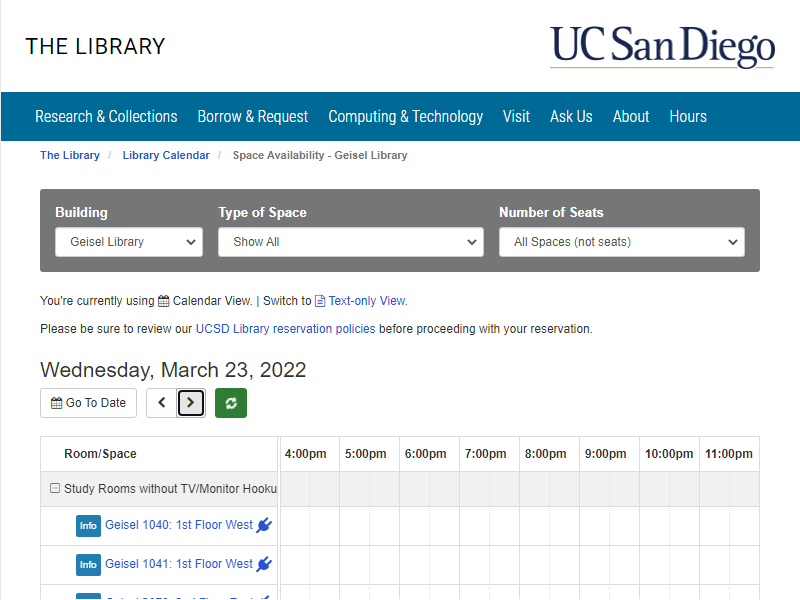
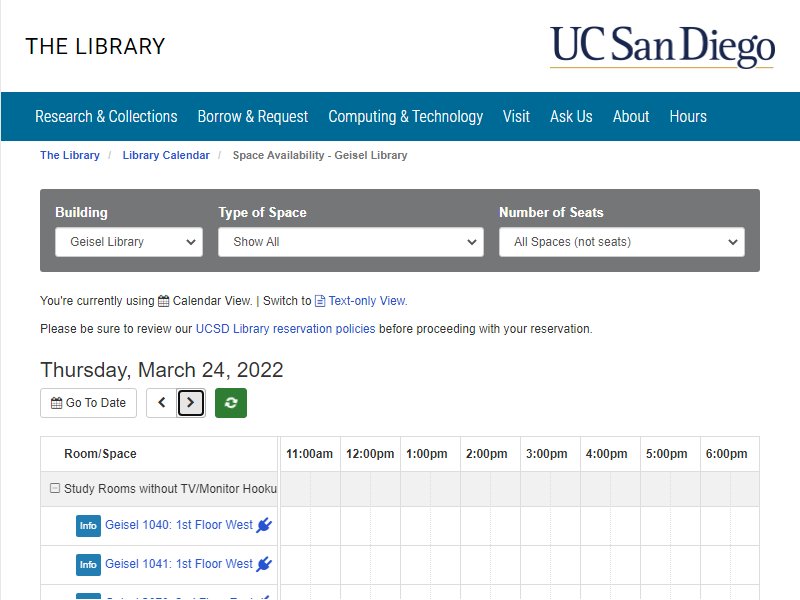
now works for a single reservation at a specific time. walks through from page load to reservation confirmation. THROUGH DUO

Changed region(s): [[0.3438, 0.75, 0.9375, 0.78], [0.0312, 0.6, 0.4062, 0.63], [0.2812, 0.66, 0.3125, 0.69]]

diff --git a/index.js b/index.js
@@ -1,11 +1,21 @@
 const puppeteer = require('puppeteer');
+const args = process.argv.slice(2);
+const debug = parseInt(args[0]);
+const username = args[1];
+const password = args[2];
+
 
 (async () => {
+    // 1. LAUNCH BROWSER
     const browser = await puppeteer.launch();
     const page = await browser.newPage();
-    await page.goto('https://ucsd.libcal.com/reserve', {waitUntil: 'networkidle0'});
-    await page.screenshot({ path: './screenshots/landedatpage.png' });
 
+    // 2. GO TO PAGE
+    await page.goto('https://ucsd.libcal.com/reserve', {waitUntil: 'networkidle0'});
+    if(debug){
+        await page.screenshot({ path: './screenshots/landedatpage.png' });
+    }
+    // 3. NAVIGATE TO 2 WEEKS FROM NOW
     // Try to click the next day button
     const nextpage = await page.$('#eq-time-grid > div.fc-header-toolbar.fc-toolbar.fc-toolbar-ltr > div:nth-child(1) > div > button.fc-next-button.btn.btn-default.btn-sm');
     // not used at the moment, but this is to get the next button "text". there is no text its an image thing.
@@ -16,40 +26,54 @@ const puppeteer = require('puppeteer');
     await nextpage.click();
     await page.screenshot({path: './screenshots/day3.png'});
     */
-    await page.screenshot({path: './screenshots/day0.png'});
+    if(debug){
+        await page.screenshot({path: './screenshots/day0.png'});
+    }
     for (let i =0; i<14; i++){
         await nextpage.click();
-        await page.screenshot({path: `./screenshots/day${i+1}.png`});
+        if(debug){
+            await page.screenshot({path: `./screenshots/day${i+1}.png`});
+        }
     }
 
+    // 4. REQUEST TIMESLOT(S)
     // Now you're on the correct day, two weeks from today
-    const timeslot1 = await page.$('#eq-time-grid > div.fc-view-harness.fc-view-harness-passive > div > table > tbody > tr > td:nth-child(3) > div > div > div > table > tbody > tr:nth-child(33) > td > div > div.fc-timeline-events.fc-scrollgrid-sync-inner > div:nth-child(17) > a');
+    const timeslot1 = await page.$('#eq-time-grid > div.fc-view-harness.fc-view-harness-passive > div > table > tbody > tr > td:nth-child(3) > div > div > div > table > tbody > tr:nth-child(33) > td > div > div.fc-timeline-events.fc-scrollgrid-sync-inner > div:nth-child(20) > a');
     await timeslot1.click();
 
     await page.waitForTimeout(3000);
 
+    // 5. SUBMIT REQUESTED TIME(S)
     await Promise.all([
         page.waitForNavigation({waitUntil: 'networkidle0'}),
         page.click('#submit_times')
     ]);
 
+    // 6. SINGLE SIGN-ON
     await page.waitForSelector('#main-content > div > section > h1 > span');
-    await page.screenshot({path: './screenshots/sso.png'});
+    if (debug){
+        await page.screenshot({path: './screenshots/sso.png'});
+    }
+    await page.type('#ssousername', username);
+    await page.type('#ssopassword', password);
 
-    await page.type('#ssousername', 'a1amaya');
-    await page.type('#ssopassword', 'R@D@r2d2R@D@R@D@');
-
-    await page.screenshot({path: './screenshots/ssofilledout.png'});
+    if (debug) {
+        await page.screenshot({path: './screenshots/ssofilledout.png'});
+    }
 
     await Promise.all([
         page.waitForNavigation({waitUntil: 'networkidle0'}),
         page.click('#login > button')
     ]);
 
-    await page.screenshot({path: './screenshots/ssosubmitted.png'});
-
+    if(debug) {
+        await page.screenshot({path: './screenshots/ssosubmitted.png'});
+    }
+    // 7. DUO AUTHENTICATION
     const duo = await page.$('#duo_iframe');
-    await duo.screenshot({path:'./screenshots/duocontent.png'});
+    if (debug) {
+        await duo.screenshot({path:'./screenshots/duocontent.png'});
+    }
     const duoframe = await duo.contentFrame();
 
     //await duoframe.screenshot({path:'./screenshots/duoframecontent.png'});
@@ -60,7 +84,28 @@ const puppeteer = require('puppeteer');
         duoframe.click('#auth_methods > fieldset:nth-child(1) > div.row-label.push-label > button'),
     ]);
 
+    if (debug){
     await page.screenshot({path: './screenshots/postduo.png'});
+    }
+    // 8. CONFIRM RESERVATION
 
+    // OK at this point you should be past sso and duo.
+    // wait for the content to load and then select it
+    await page.waitForSelector('#bform-terms-container > div.s-lc-eq-co-terms > div > p:nth-child(2) > strong > span > span > a'); //waiting for the UCSD library reservation policies link before proceeding
+    const confirmbtn = await page.$('#terms_accept');
+    await confirmbtn.click();
+
+    if (debug) {
+        await page.screenshot({path: './screenshots/lastconfirmpage.png'});
+    }
+    const submitbtn = await page.$('#s-lc-eq-bform-submit');
+    if (debug){
+        await submitbtn.screenshot({path: './screenshots/finalsubmitbtn.png'});
+    }
+    await submitbtn.click();
+
+    if(debug){
+        await page.screenshot({path: './screenshots/confirmationticket.png'});
+    }
     await browser.close();
 })();
